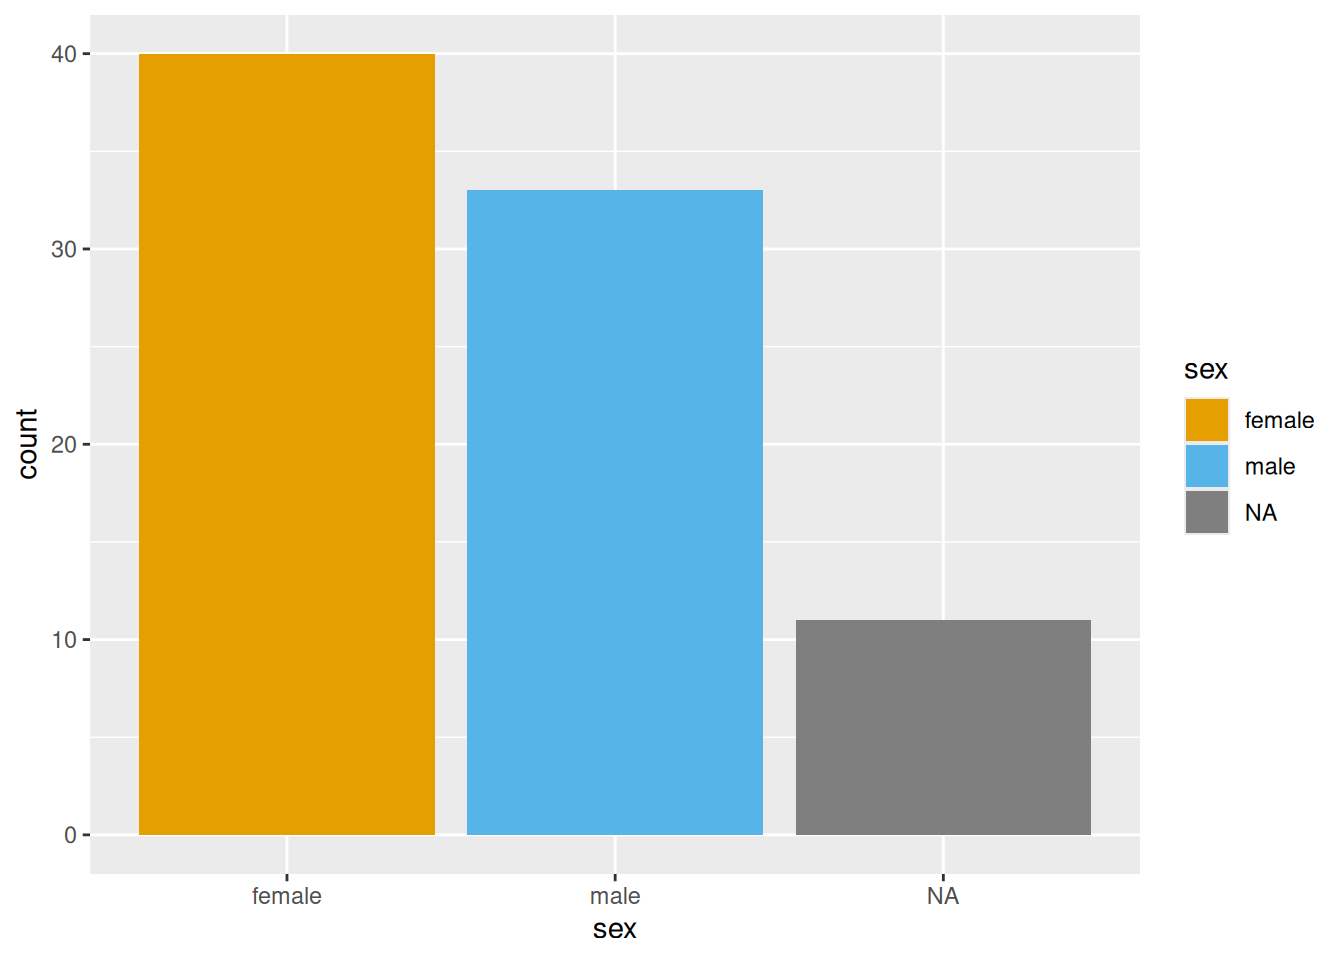
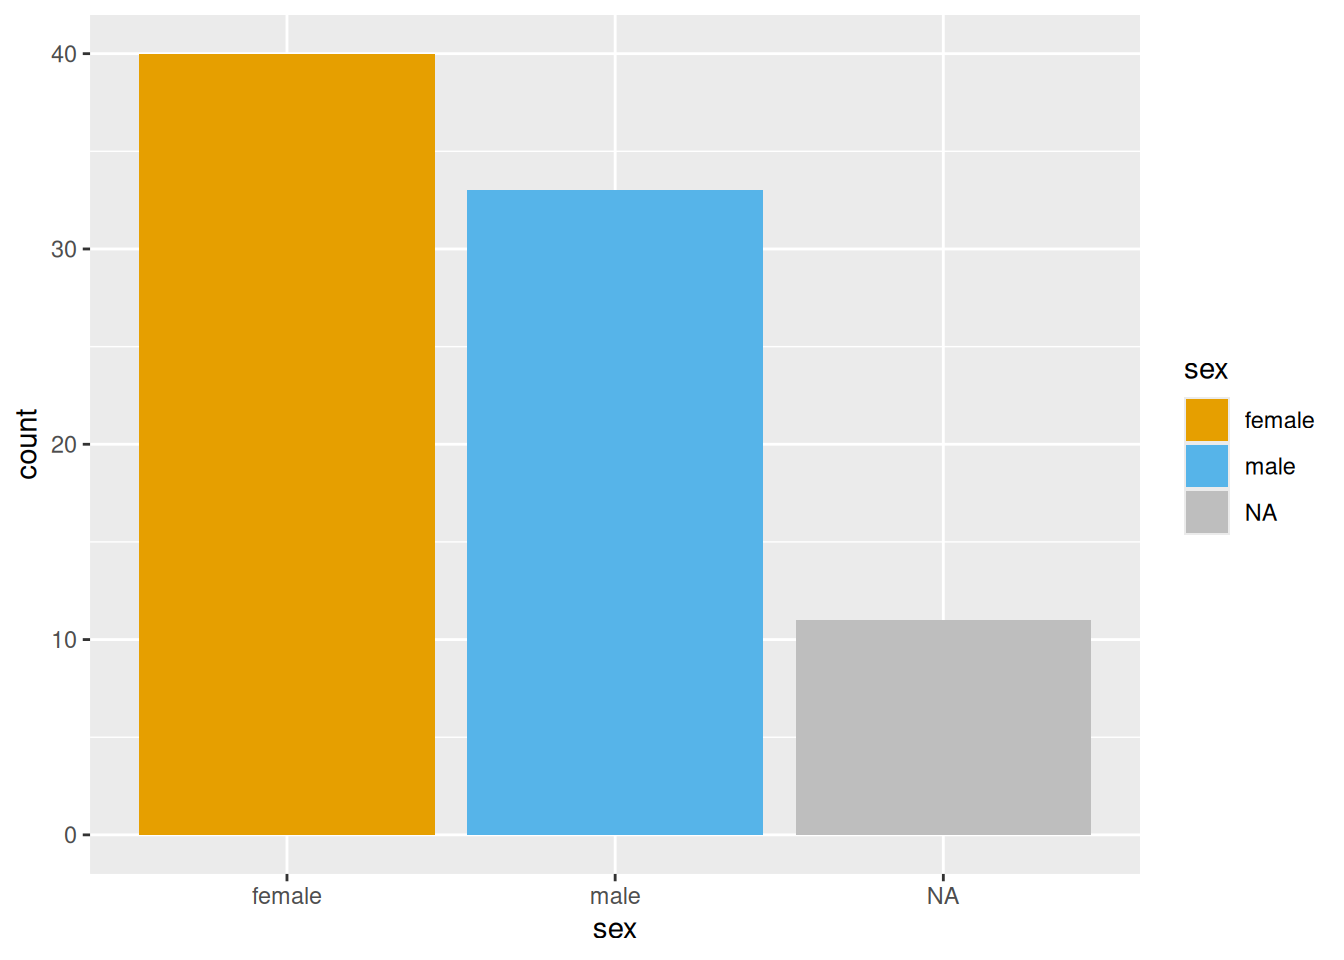
Deploying to gh-pages from @ jbdorey/BIOL361_25@478ff76945c2d67cba697ef288c9c7f03827d791 🚀

Changed region(s): [[0.5938, 0.625, 0.8125, 0.875], [0.875, 0.5, 0.9375, 0.5625]]

diff --git a/articles/Prac1_BIOL361.html b/articles/Prac1_BIOL361.html
@@ -66,7 +66,7 @@
                         <h4 data-toc-skip class="author">Dr James B
 Dorey, University of Wollongong</h4>
             
-            <h4 data-toc-skip class="date">Version 2025-03-26; practical
+            <h4 data-toc-skip class="date">Version 2025-04-01; practical
 2025-03-24</h4>
       
 
@@ -458,7 +458,11 @@ also look at it once it’s read in. To do this, we will use the
 running “<code>HylaeusData</code>” or “<code>View(HylaeusData)</code>”.
 You can also have a scroll below of the dataset.</p>
 <blockquote>
-<p><strong>Q1:</strong> What kind of data are we looking at here?</p>
+<p><strong>Q1:</strong> What kind of data are we looking at here?
+<strong>Note</strong>: this is a macroecology question that relates to
+those lectures. It is <em>not</em> a statistical question or a coding
+question (although if it were one of those things it would be the
+latter!)</p>
 </blockquote>
 <div style="border: 1px solid #ddd; padding: 0px; overflow-y: scroll; height:350px; ">
 <table class="table  lightable-material lightable-striped lightable-hover table table-responsive" style='font-family: "Source Sans Pro", helvetica, sans-serif; margin-left: auto; margin-right: auto; width: auto !important; margin-left: auto; margin-right: auto;'>
@@ -16868,7 +16872,8 @@ looks like! Do you see any patterns? Any potential problems? Answer the
 question below.</p>
 <blockquote>
 <p><strong>Q4:</strong> Why are there specimens that are
-“<strong>NA</strong>” for sex?</p>
+“<strong>NA</strong>” for sex? <strong>Hint</strong>: Bees are actually
+usually quite easy to sex.</p>
 </blockquote>
 </div>
 <div class="section level3" number="5.2">
@@ -16919,7 +16924,8 @@ prettier still!</p>
 <span>    <span class="co"># useful and easy to code actually! </span></span>
 <span>   <span class="fu">ggplot2</span><span class="fu">::</span><span class="fu"><a href="https://ggplot2.tidyverse.org/reference/geom_histogram.html" class="external-link">geom_histogram</a></span><span class="op">(</span>stat <span class="op">=</span> <span class="st">"count"</span><span class="op">)</span> <span class="op">+</span></span>
 <span>    <span class="co"># Let's use a MANUAL colour scale</span></span>
-<span>   <span class="fu">ggplot2</span><span class="fu">::</span><span class="fu"><a href="https://ggplot2.tidyverse.org/reference/scale_manual.html" class="external-link">scale_fill_manual</a></span><span class="op">(</span>values <span class="op">=</span> <span class="fu"><a href="https://rdrr.io/r/base/c.html" class="external-link">c</a></span><span class="op">(</span><span class="st">"#E69F00"</span>, <span class="st">"#56B4E9"</span>, <span class="st">"grey"</span><span class="op">)</span><span class="op">)</span></span>
+<span>   <span class="fu">ggplot2</span><span class="fu">::</span><span class="fu"><a href="https://ggplot2.tidyverse.org/reference/scale_manual.html" class="external-link">scale_fill_manual</a></span><span class="op">(</span>values <span class="op">=</span> <span class="fu"><a href="https://rdrr.io/r/base/c.html" class="external-link">c</a></span><span class="op">(</span><span class="st">"#E69F00"</span>, <span class="st">"#56B4E9"</span><span class="op">)</span>,</span>
+<span>                              na.value <span class="op">=</span> <span class="st">"grey"</span><span class="op">)</span></span>
 <span><span class="op">)</span></span>
 <span><span class="co">#&gt; Warning in ggplot2::geom_histogram(stat = "count"):</span></span>
 <span><span class="co">#&gt; Ignoring unknown parameters: `binwidth`, `bins`, and</span></span>
@@ -16943,7 +16949,8 @@ prettier still!</p>
 <span>    <span class="co"># useful and easy to code actually! </span></span>
 <span>   <span class="fu">ggplot2</span><span class="fu">::</span><span class="fu"><a href="https://ggplot2.tidyverse.org/reference/geom_histogram.html" class="external-link">geom_histogram</a></span><span class="op">(</span>stat <span class="op">=</span> <span class="st">"count"</span><span class="op">)</span> <span class="op">+</span></span>
 <span>    <span class="co"># Let's use a MANUAL colour scale</span></span>
-<span>   <span class="fu">ggplot2</span><span class="fu">::</span><span class="fu"><a href="https://ggplot2.tidyverse.org/reference/scale_manual.html" class="external-link">scale_fill_manual</a></span><span class="op">(</span>values <span class="op">=</span> <span class="fu"><a href="https://rdrr.io/r/base/c.html" class="external-link">c</a></span><span class="op">(</span><span class="st">"#E69F00"</span>, <span class="st">"#56B4E9"</span>, <span class="st">"grey"</span><span class="op">)</span><span class="op">)</span> <span class="op">+</span></span>
+<span>   <span class="fu">ggplot2</span><span class="fu">::</span><span class="fu"><a href="https://ggplot2.tidyverse.org/reference/scale_manual.html" class="external-link">scale_fill_manual</a></span><span class="op">(</span>values <span class="op">=</span> <span class="fu"><a href="https://rdrr.io/r/base/c.html" class="external-link">c</a></span><span class="op">(</span><span class="st">"#E69F00"</span>, <span class="st">"#56B4E9"</span><span class="op">)</span>,</span>
+<span>                              na.value <span class="op">=</span> <span class="st">"grey"</span><span class="op">)</span> <span class="op">+</span></span>
 <span>    <span class="co"># Let's use a classic theme</span></span>
 <span>   <span class="fu">ggplot2</span><span class="fu">::</span><span class="fu"><a href="https://ggplot2.tidyverse.org/reference/ggtheme.html" class="external-link">theme_classic</a></span><span class="op">(</span><span class="op">)</span></span>
 <span><span class="op">)</span></span>
@@ -16965,7 +16972,8 @@ website?</p>
 <span>    <span class="co"># useful and easy to code actually! </span></span>
 <span>   <span class="fu">ggplot2</span><span class="fu">::</span><span class="fu"><a href="https://ggplot2.tidyverse.org/reference/geom_histogram.html" class="external-link">geom_histogram</a></span><span class="op">(</span>stat <span class="op">=</span> <span class="st">"count"</span><span class="op">)</span> <span class="op">+</span></span>
 <span>    <span class="co"># Let's use a MANUAL colour scale</span></span>
-<span>   <span class="fu">ggplot2</span><span class="fu">::</span><span class="fu"><a href="https://ggplot2.tidyverse.org/reference/scale_manual.html" class="external-link">scale_fill_manual</a></span><span class="op">(</span>values <span class="op">=</span> <span class="fu"><a href="https://rdrr.io/r/base/c.html" class="external-link">c</a></span><span class="op">(</span><span class="st">"#E69F00"</span>, <span class="st">"#56B4E9"</span>, <span class="st">"grey"</span><span class="op">)</span><span class="op">)</span> <span class="op">+</span></span>
+<span>   <span class="fu">ggplot2</span><span class="fu">::</span><span class="fu"><a href="https://ggplot2.tidyverse.org/reference/scale_manual.html" class="external-link">scale_fill_manual</a></span><span class="op">(</span>values <span class="op">=</span> <span class="fu"><a href="https://rdrr.io/r/base/c.html" class="external-link">c</a></span><span class="op">(</span><span class="st">"#E69F00"</span>, <span class="st">"#56B4E9"</span><span class="op">)</span>,</span>
+<span>                              na.value <span class="op">=</span> <span class="st">"grey"</span><span class="op">)</span> <span class="op">+</span></span>
 <span>    <span class="co"># Let's use a classic theme</span></span>
 <span>   <span class="fu">ggplot2</span><span class="fu">::</span><span class="fu"><a href="https://ggplot2.tidyverse.org/reference/ggtheme.html" class="external-link">theme_dark</a></span><span class="op">(</span><span class="op">)</span></span>
 <span><span class="op">)</span></span>
@@ -16986,7 +16994,8 @@ website?</p>
 <span>    <span class="co"># useful and easy to code actually! </span></span>
 <span>   <span class="fu">ggplot2</span><span class="fu">::</span><span class="fu"><a href="https://ggplot2.tidyverse.org/reference/geom_histogram.html" class="external-link">geom_histogram</a></span><span class="op">(</span>stat <span class="op">=</span> <span class="st">"count"</span><span class="op">)</span> <span class="op">+</span></span>
 <span>    <span class="co"># Let's use a MANUAL colour scale</span></span>
-<span>   <span class="fu">ggplot2</span><span class="fu">::</span><span class="fu"><a href="https://ggplot2.tidyverse.org/reference/scale_manual.html" class="external-link">scale_fill_manual</a></span><span class="op">(</span>values <span class="op">=</span> <span class="fu"><a href="https://rdrr.io/r/base/c.html" class="external-link">c</a></span><span class="op">(</span><span class="st">"#E69F00"</span>, <span class="st">"#56B4E9"</span>, <span class="st">"grey"</span><span class="op">)</span><span class="op">)</span> <span class="op">+</span></span>
+<span>   <span class="fu">ggplot2</span><span class="fu">::</span><span class="fu"><a href="https://ggplot2.tidyverse.org/reference/scale_manual.html" class="external-link">scale_fill_manual</a></span><span class="op">(</span>values <span class="op">=</span> <span class="fu"><a href="https://rdrr.io/r/base/c.html" class="external-link">c</a></span><span class="op">(</span><span class="st">"#E69F00"</span>, <span class="st">"#56B4E9"</span><span class="op">)</span>,</span>
+<span>                              na.value <span class="op">=</span> <span class="st">"grey"</span><span class="op">)</span> <span class="op">+</span></span>
 <span>    <span class="co"># Let's use a classic theme</span></span>
 <span>   <span class="fu">ggplot2</span><span class="fu">::</span><span class="fu"><a href="https://ggplot2.tidyverse.org/reference/ggtheme.html" class="external-link">theme_linedraw</a></span><span class="op">(</span><span class="op">)</span></span>
 <span><span class="op">)</span></span>
@@ -17043,7 +17052,8 @@ new elements! So, let’s add in some points based on sex!</p>
 <span>                                      <span class="co"># this depending on what you're doing</span></span>
 <span>                                    colour <span class="op">=</span> <span class="va">sex</span><span class="op">)</span>,</span>
 <span>                       stat <span class="op">=</span> <span class="st">"count"</span><span class="op">)</span> <span class="op">+</span></span>
-<span>   <span class="fu">ggplot2</span><span class="fu">::</span><span class="fu"><a href="https://ggplot2.tidyverse.org/reference/scale_manual.html" class="external-link">scale_colour_manual</a></span><span class="op">(</span>values <span class="op">=</span> <span class="fu"><a href="https://rdrr.io/r/base/c.html" class="external-link">c</a></span><span class="op">(</span><span class="st">"#E69F00"</span>, <span class="st">"#56B4E9"</span>, <span class="st">"grey"</span><span class="op">)</span><span class="op">)</span> <span class="op">+</span></span>
+<span>   <span class="fu">ggplot2</span><span class="fu">::</span><span class="fu"><a href="https://ggplot2.tidyverse.org/reference/scale_manual.html" class="external-link">scale_colour_manual</a></span><span class="op">(</span>values <span class="op">=</span> <span class="fu"><a href="https://rdrr.io/r/base/c.html" class="external-link">c</a></span><span class="op">(</span><span class="st">"#E69F00"</span>, <span class="st">"#56B4E9"</span><span class="op">)</span>,</span>
+<span>                              na.value <span class="op">=</span> <span class="st">"hotpink"</span><span class="op">)</span> <span class="op">+</span></span>
 <span>    <span class="co"># Let's use a classic theme</span></span>
 <span>   <span class="fu">ggplot2</span><span class="fu">::</span><span class="fu"><a href="https://ggplot2.tidyverse.org/reference/ggtheme.html" class="external-link">theme_classic</a></span><span class="op">(</span><span class="op">)</span></span>
 <span><span class="op">)</span></span>

diff --git a/articles/birdwingR.html b/articles/birdwingR.html
@@ -218,7 +218,7 @@
 <span><span class="co">##  - Ordering prefixs...</span></span>
 <span><span class="co">##  - Ordering data by 1. dataSource, 2. completeness and 3. .summary column...</span></span>
 <span><span class="co">##  - Find and FIRST duplicate to keep and assign other associated duplicates to that one (i.e., across multiple tests a 'kept duplicate', could otherwise be removed)...</span></span>
-<span><span class="co">##  - Duplicates have been saved in the file and location: /tmp/Rtmpa6SWZOduplicateRun_collectionInfo_2025-03-26.csv</span></span>
+<span><span class="co">##  - Duplicates have been saved in the file and location: /tmp/RtmphPGq4fduplicateRun_collectionInfo_2025-04-01.csv</span></span>
 <span><span class="co">##  - Across the entire dataset, there are now 0 duplicates from a total of 1,187 occurrences.</span></span></code></pre>
 <pre><code><span><span class="co">##  - We will flag all columns starting with '.'</span></span></code></pre>
 <div class="sourceCode" id="cb12"><pre class="downlit sourceCode r">

diff --git a/articles/Prac2_BIOL361.html b/articles/Prac2_BIOL361.html
@@ -66,7 +66,7 @@
                         <h4 data-toc-skip class="author">Dr James B
 Dorey, University of Wollongong</h4>
             
-            <h4 data-toc-skip class="date">Version 2025-03-26; practical
+            <h4 data-toc-skip class="date">Version 2025-04-01; practical
 2025-03-31</h4>
       
 
